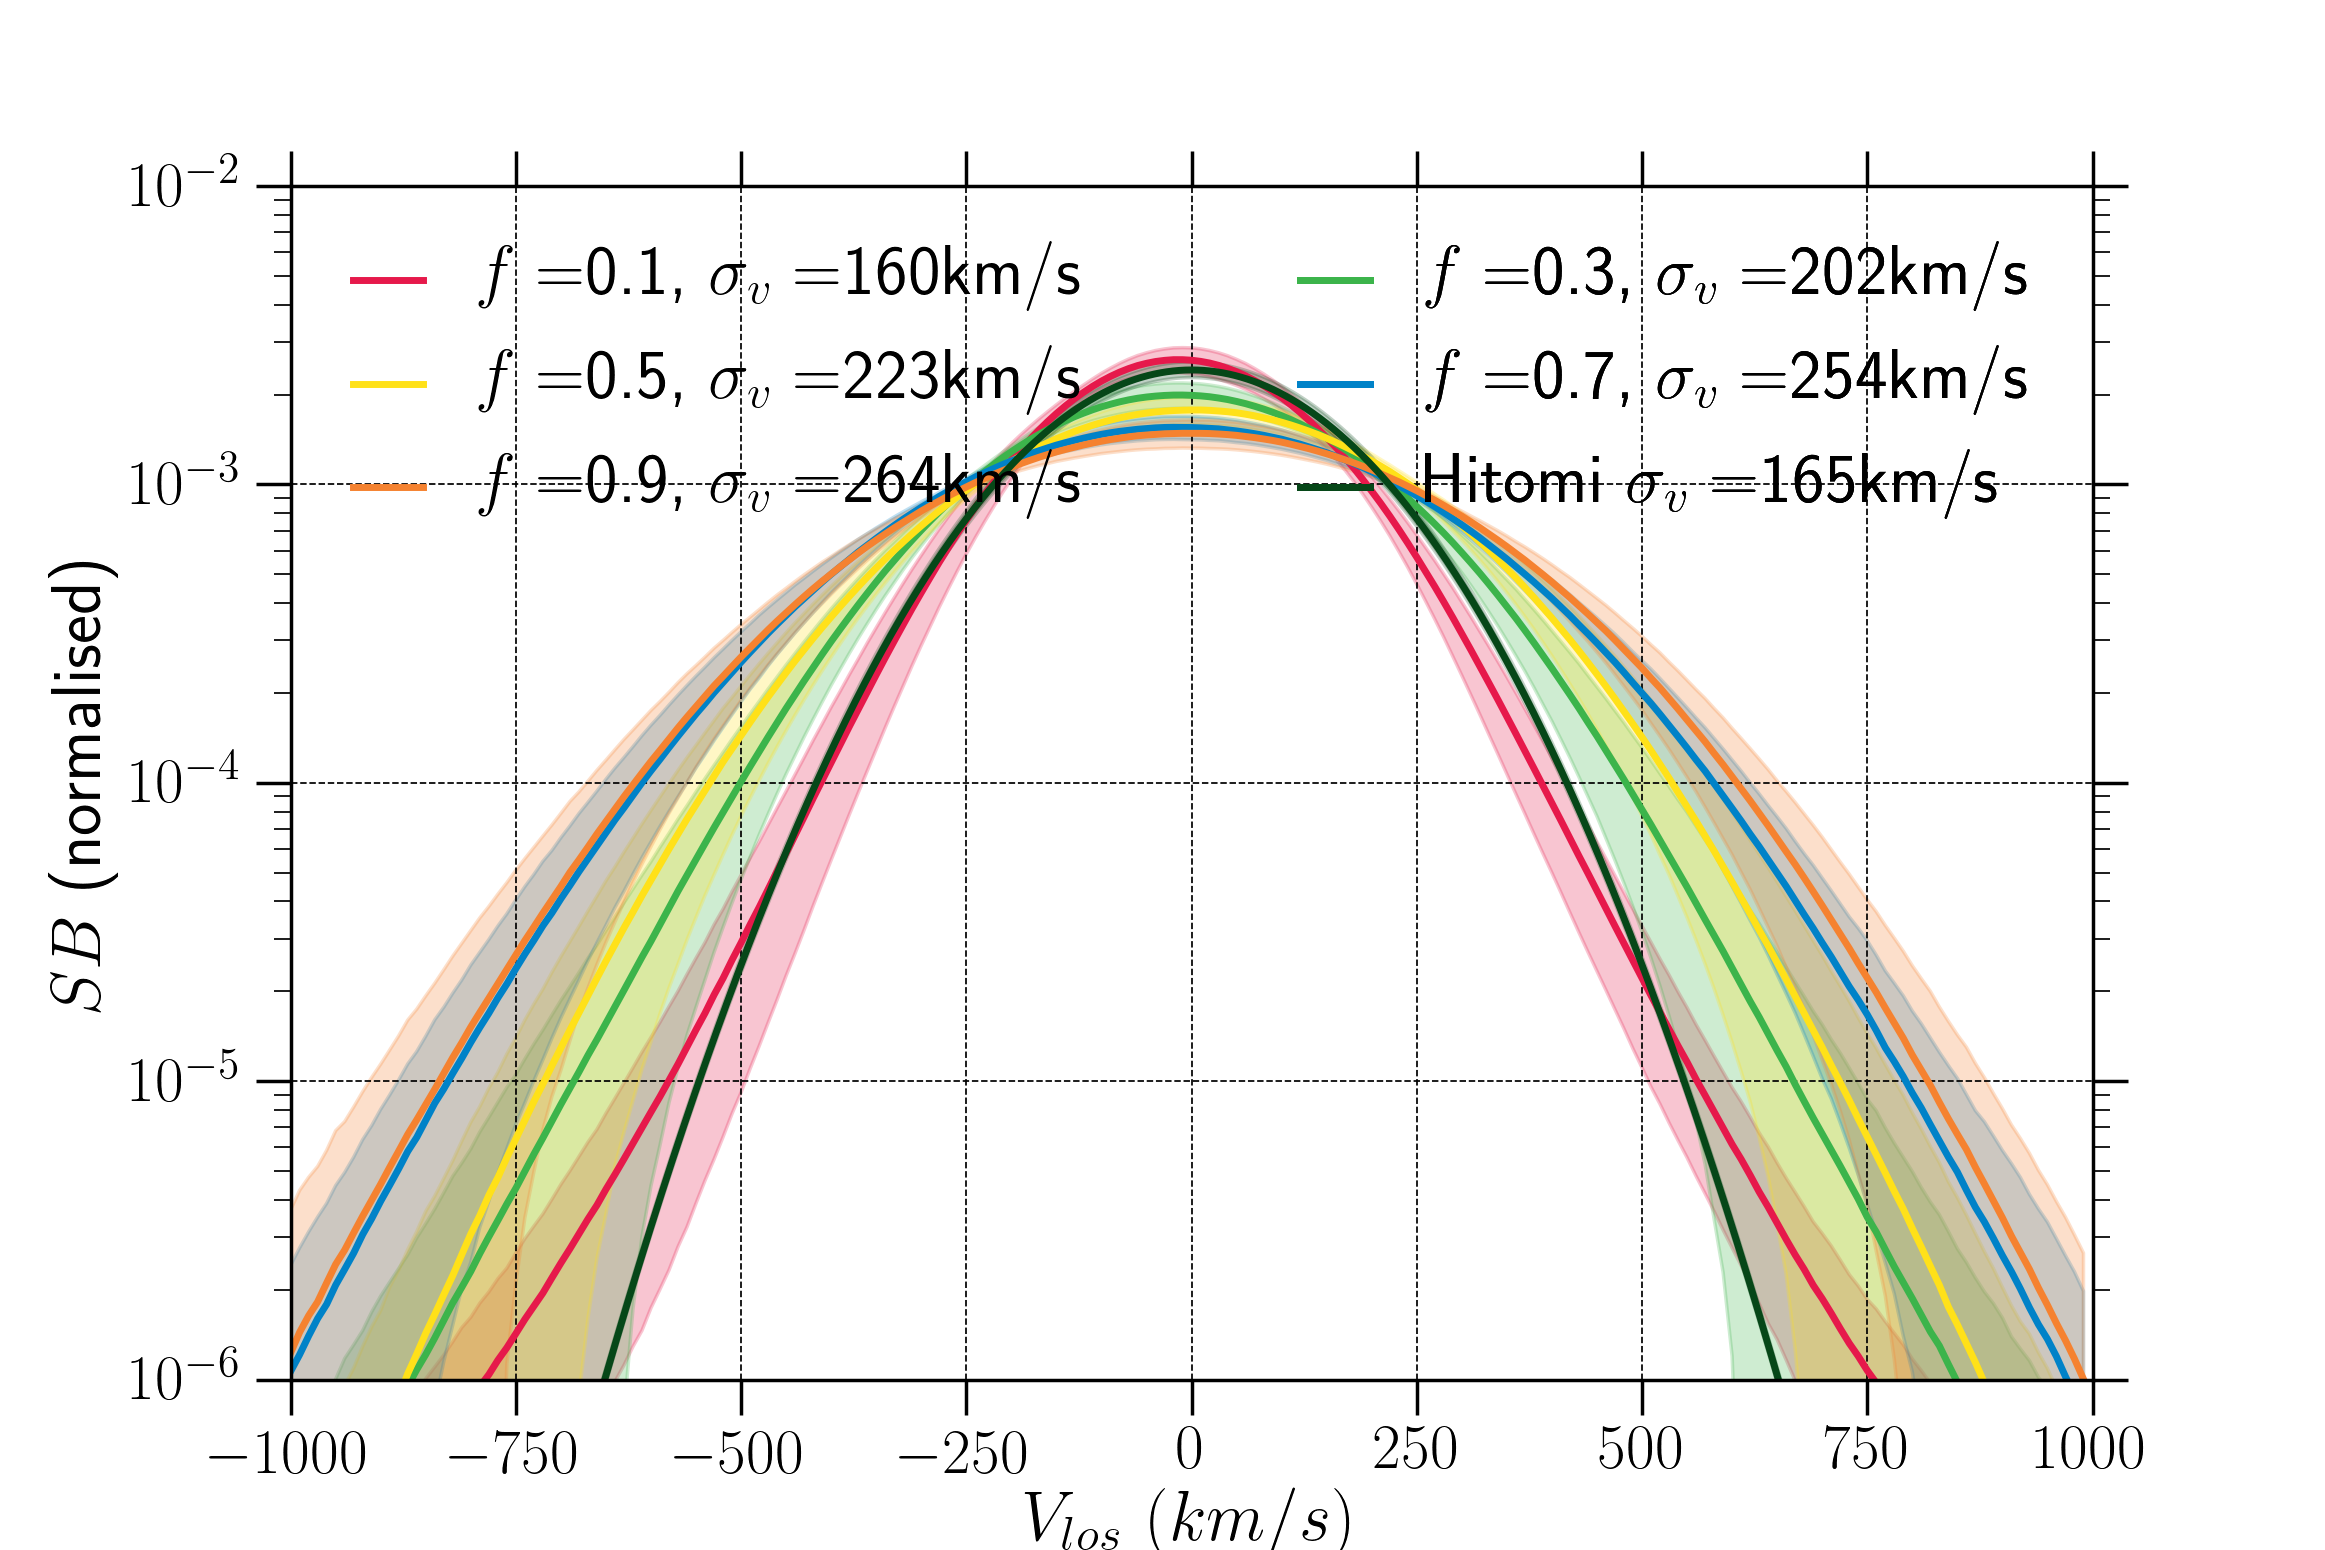
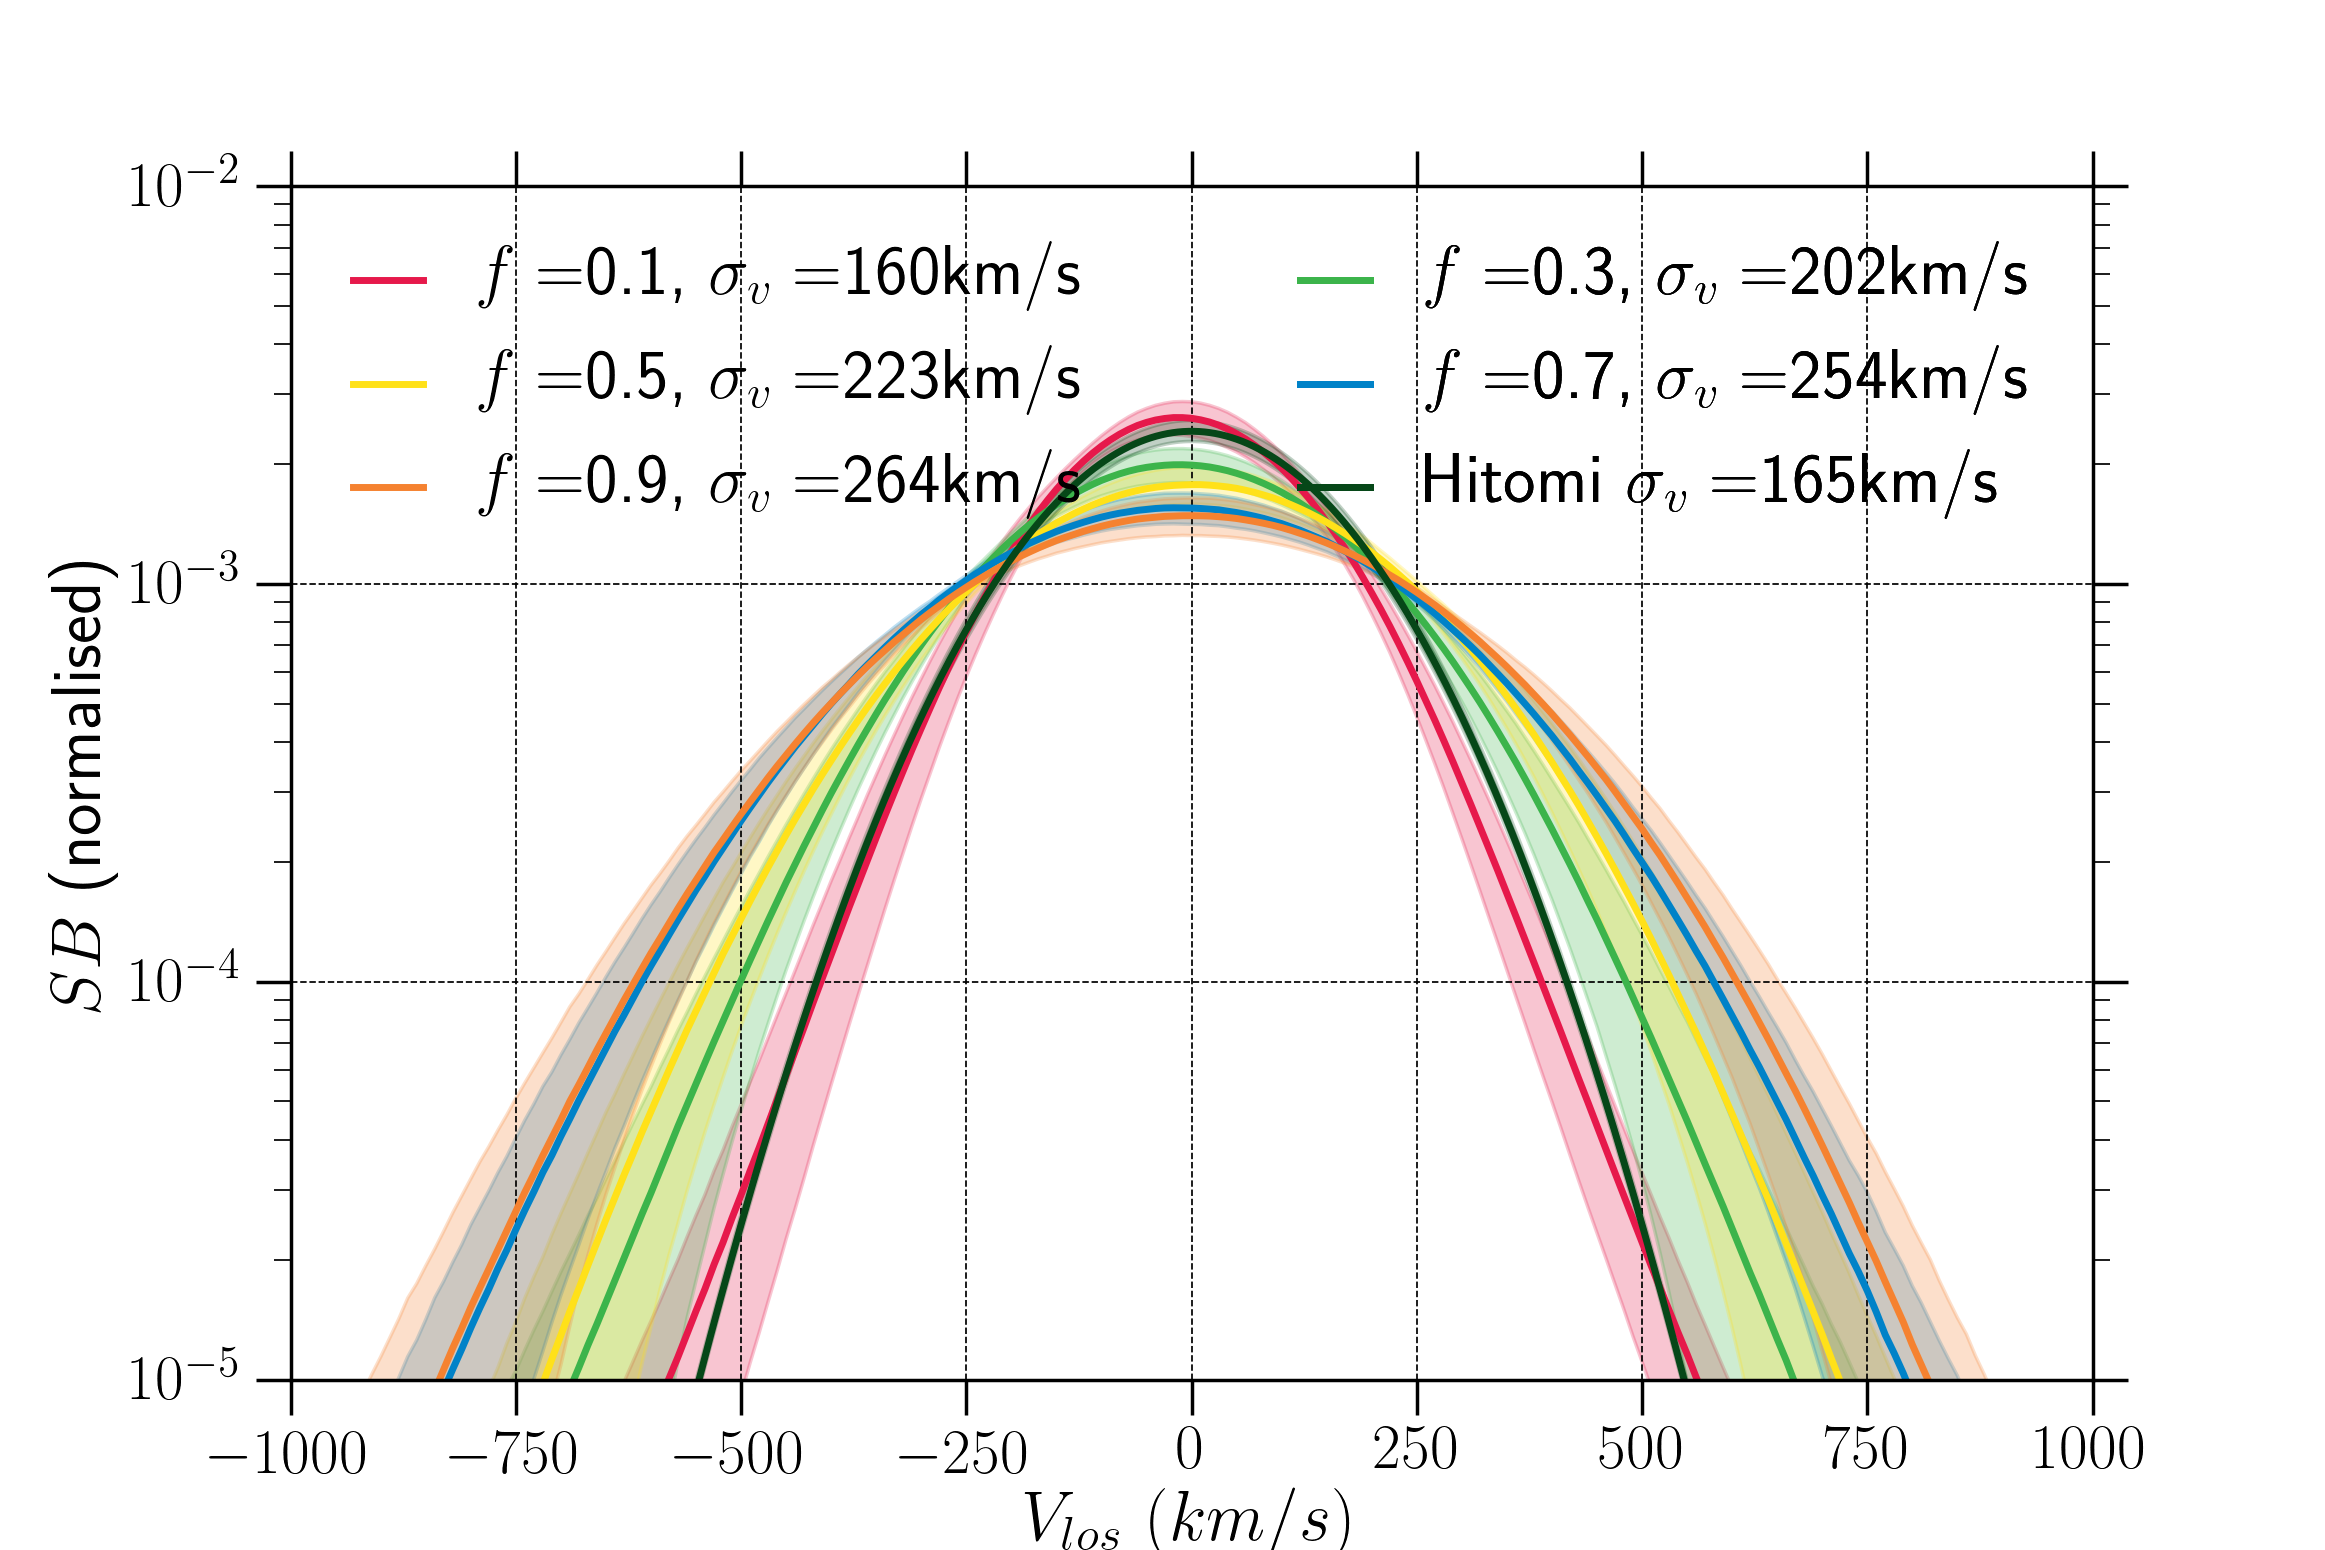
Added mach-temp plots fo BDh runs

Changed region(s): [[0.1239, 0.2168, 0.8981, 0.8981], [0.0619, 0.6813, 0.1239, 0.7123], [0.0619, 0.6194, 0.1239, 0.6503]]

diff --git a/mach_temp_dist/mach-temp-dist-BDh.py b/mach_temp_dist/mach-temp-dist-BDh.py
@@ -23,36 +23,18 @@ UNIT_VELOCITY= (1.e8)
 UNIT_LENGTH =  (CONST_pc*40.e3)
 UNIT_TIME=UNIT_LENGTH/UNIT_VELOCITY/(3.15e13)
 nx,ny,nz=256,256,256
-#no_files=13
-#Load data files
-#wdir=('tabulated_cooling/256/k0-2/', 'tabulated_cooling/256/k12/', 'thermal_heating/256/tabulated_cooling/F5e-1/k0-2/', 'thermal_heating/256/tabulated_cooling/F1e-1/k0-2/', 'thermal_heating/256/tabulated_cooling/F1e-2/k0-2/', 'thermal_heating/256/tabulated_cooling/F1e-3/k0-2/', 'thermal_heating/256/tabulated_cooling/F5e-1/k12/', 'thermal_heating/256/tabulated_cooling/F1e-1/k12/', 'thermal_heating/256/tabulated_cooling/F1e-2/k12/', 'thermal_heating/256/tabulated_cooling/F1e-3/k12/', 'no_turb/', 'turb_perturb/F1e-2/k12/', 'turb_perturb/F1e-3/k12/')
-#labels=('Ckl', 'Ckh', 'HCkl1', 'HCkl2', 'HCkl3', 'HCkl4', 'HCkh1', 'HCkh2', 'HCkh3', 'HCkh4', 'DHC', 'DHCkh1', 'DHCkh2')
-#t_mp=(2, 45, 4, 10, 14, 21, 30, 33, 51, 30, 79, 35, 36)
-#t_turb=(1.2, 4.8, 2, 4, 6, 10.2, 6, 6, 12, 12, 2, 10.2, 10.2)
-#step_size=(0.2, 0.2, 0.2, 0.2, 1.0, 0.2, 0.2, 0.2, 1.0, 0.2, 0.2, 0.2, 0.2)
+wdir=('F1e-1/', 'F5e-1/', 'F9e-1/')
 
-#wdir=('thermal_heating/256/tabulated_cooling/F5e-1/k0-2/', 'thermal_heating/256/tabulated_cooling/F5e-1/k12/')
-#wdir=('tabulated_cooling/256/k0-2/', 'tabulated_cooling/256/k12/')
-wdir=('no_turb/2e-1/', 'turb_perturb/DkHC2e-1/', 'turb_perturb/DBh2e-1/F5e-1/')
+labels=('0.1', '0.5', '0.9')
 
-#labels=('Bl', 'Bh')
-#labels=('Tl', 'Th')
-labels=('QD', 'TDh', 'BDh')
-
-#num_plots=2
-#num_plots=2
 num_plots=3
 
 distM = [None] * (num_plots)
 distT = [None] * (num_plots)
 
-#t_mp=(10., 42.)
-#t_mp=(10., 51.)
-t_mp=(10.4, 42., 15.)
+t_mp=(10., 15., 26)
 
-#t_turb=(1., 4.8)
-#t_turb=(0.8, 4.8)
-t_turb=(0.2, 10.2, 3.)
+t_turb=(1., 3., 3.)
 
 step_size=np.array((0.2))#, 0.2, 0.2))
 
@@ -62,10 +44,10 @@ fig.set_size_inches(8, 10.)
 
 for i in xrange(num_plots):
 	j=i
-	filedir='/mnt/lustre/ug4/ugrajs/cooling/'+wdir[i]
+	filedir='/mnt/lustre/ug4/ugrajs/cooling/turb_perturb/DBh2e-1/'+wdir[i]
 	file=filedir+'mach'+str(int(t_turb[i]/step_size+0.1)).rjust(4,'0')+'.txt'
 	data = np.loadtxt(file, skiprows=1, usecols=(0,1))
-	distM[j], =ax1.plot(data[:,0], data[:,1]/(float(nx*ny*nz)), label=labels[i]+', t='+str(int(t_turb[i]*UNIT_TIME))+' Myr')
+	distM[j], =ax1.plot(data[:,0], data[:,1]/(float(nx*ny*nz)), label='$f=$'+labels[i]+', t='+str(int(t_turb[i]*UNIT_TIME))+' Myr')
 	file=filedir+'mach'+str(int(t_mp[i]/step_size+0.1)).rjust(4,'0')+'.txt'
 	data = np.loadtxt(file, skiprows=1, usecols=(0,1))
 	ax1.plot(data[:,0], data[:,1]/(float(nx*ny*nz)), dashes=[30, 5, 10, 5], )
@@ -75,7 +57,7 @@ for i in xrange(num_plots):
 	ax2.plot(data[:,0], data[:,1]/(float(nx*ny*nz)))
 	file=filedir+'temp'+str(int(t_mp[i]/step_size+0.1)).rjust(4,'0')+'.txt'
 	data = np.loadtxt(file, skiprows=1, usecols=(0,1))
-	distT[j], =ax2.plot(data[:,0], data[:,1]/(float(nx*ny*nz)), dashes=[30, 5, 10, 5], label=labels[i]+', t='+str(int(t_mp[i]*UNIT_TIME))+' Myr')
+	distT[j], =ax2.plot(data[:,0], data[:,1]/(float(nx*ny*nz)), dashes=[30, 5, 10, 5], label='$f=$'+labels[i]+', t='+str(int(t_mp[i]*UNIT_TIME))+' Myr')
 
 ax1.set_xscale('log')
 ax1.set_yscale('log')
@@ -108,9 +90,7 @@ ax2.grid(color='grey', linestyle='-', linewidth=.3)
 distM_legend=ax1.legend(handles=distM, loc='upper left', ncol=2, fancybox=True, framealpha=0., bbox_to_anchor=(0., 1.05))
 distT_legend=ax2.legend(handles=distT, loc='upper left', ncol=1, fancybox=True, framealpha=0., bbox_to_anchor=(0., 1.05))
 
-#plt.savefig('mach-temp-dist-B.png',dpi=250, mode="expand", borderaxespad=0.)
-#plt.savefig('mach-temp-dist-T.png',dpi=250, mode="expand", borderaxespad=0.)
-plt.savefig('mach-temp-dist-D.png',dpi=250, mode="expand", borderaxespad=0.)
+plt.savefig('mach-temp-dist-BDh.png',dpi=250, mode="expand", borderaxespad=0.)
 
 plt.close()
 

diff --git a/surface_brightness/sb_vlos_pdf_BDh.py b/surface_brightness/sb_vlos_pdf_BDh.py
@@ -107,9 +107,9 @@ sb_legend2.get_frame().set_alpha(0.)
 #ax.legend()
 
 ax.set_xlim(-1e3, 1e3)
-ax.set_ylim(1e-6, 3e-3)
+ax.set_ylim(0., 3e-3)
 plt.savefig('sb-vlos-pdf-BDh.png',dpi=250)
 ax.set_yscale('log')
-ax.set_ylim(1e-6, 1e-2)
+ax.set_ylim(1e-5, 1e-2)
 plt.savefig('sb-vlos-pdf-log-BDh.png',dpi=250)
 

diff --git a/surface_brightness/sb_vlos_pdf.py b/surface_brightness/sb_vlos_pdf.py
@@ -107,7 +107,7 @@ sb_legend2.get_frame().set_alpha(0.)
 #ax.legend()
 
 ax.set_xlim(-1e3, 1e3)
-ax.set_ylim(1.e-5, 3e-3)
+ax.set_ylim(0., 3e-3)
 plt.savefig('sb-vlos-pdf.png',dpi=250)
 ax.set_ylim(1.e-5, 1e-2)
 ax.set_yscale('log')
